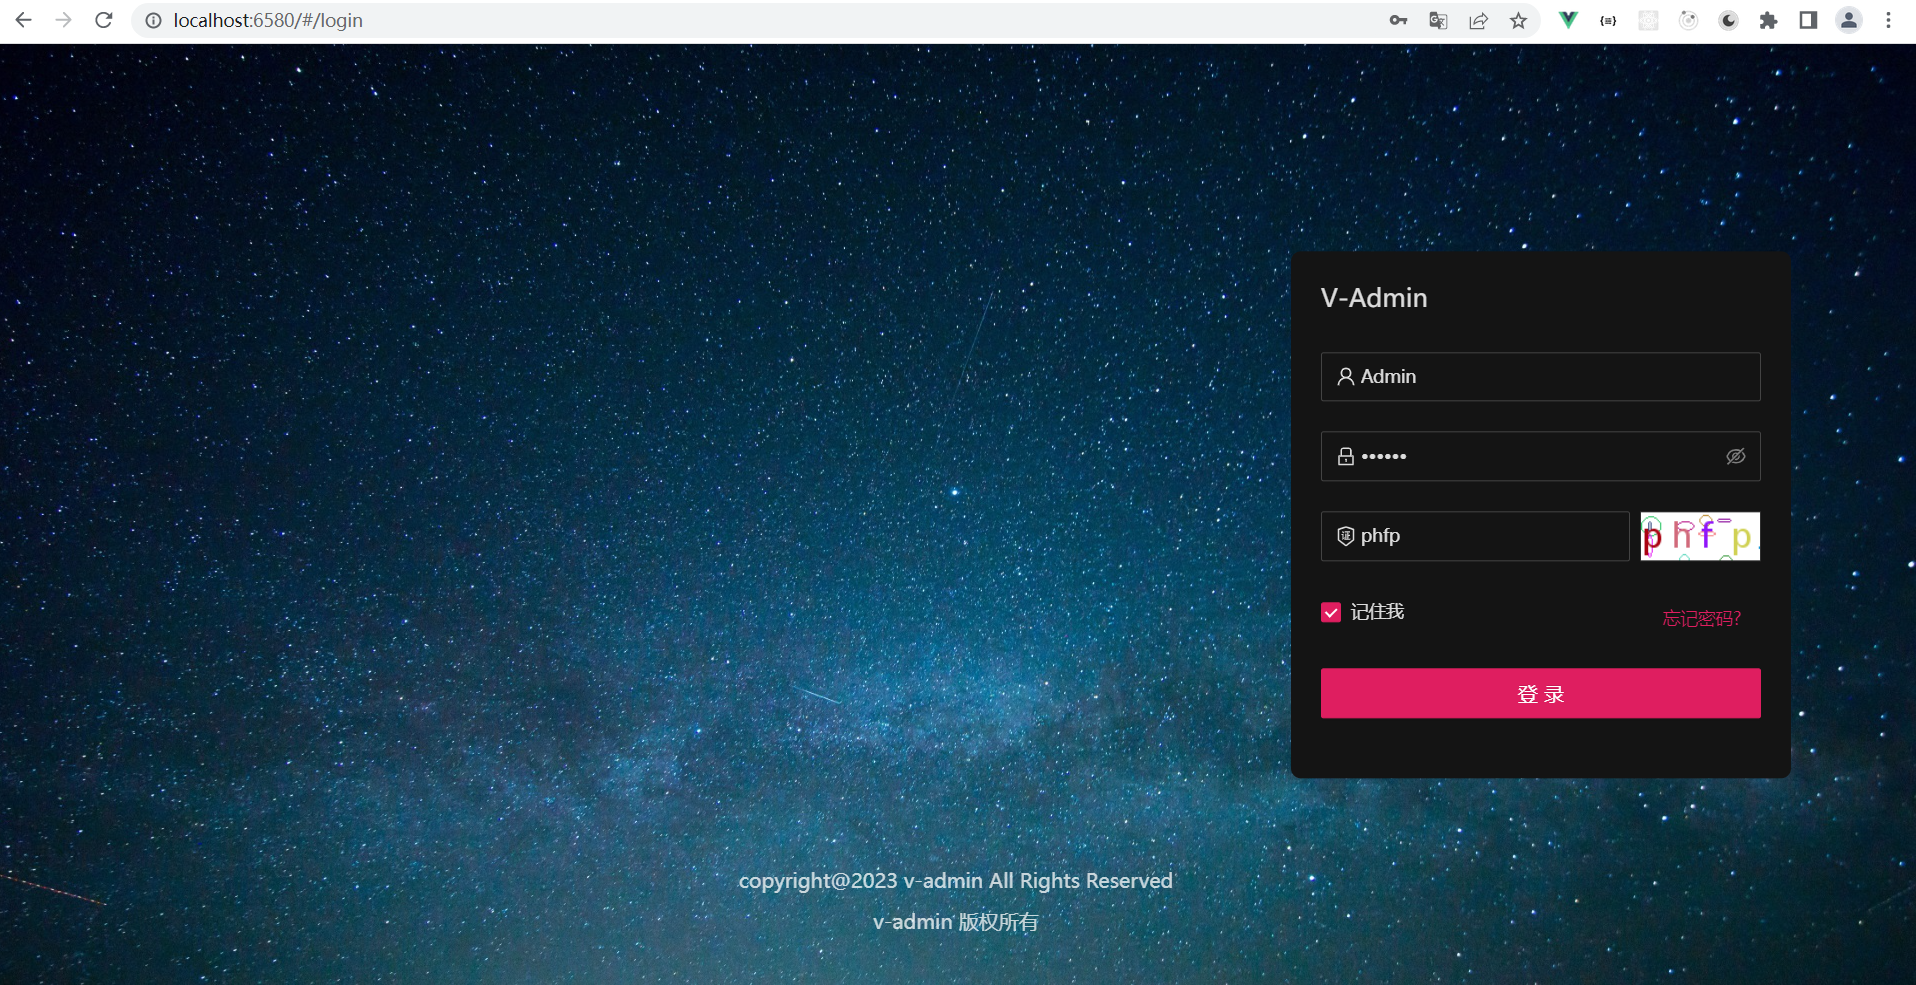
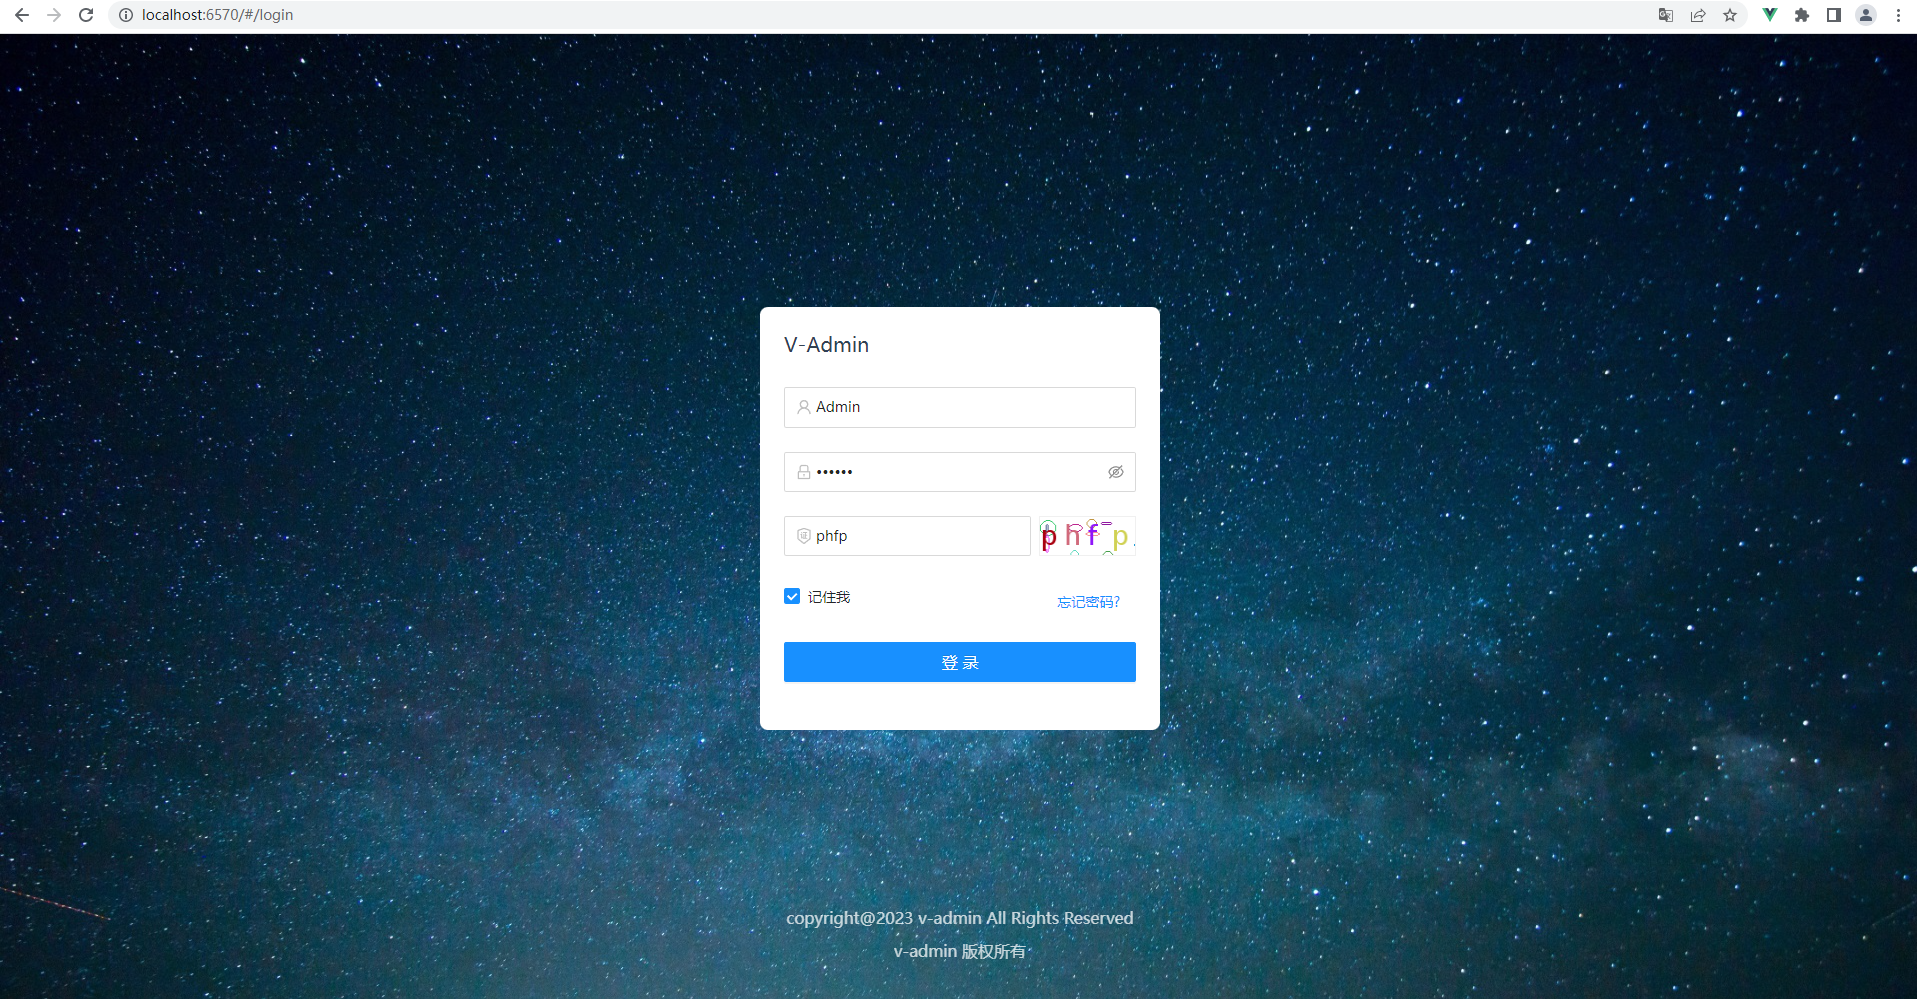
refactor: 优化代码

diff --git a/src/views/user/login/index.vue b/src/views/user/login/index.vue
@@ -115,16 +115,13 @@ function handleLogin(loginForm) {
   height: 100vh;
   background: url(/src/assets/imgs/login-bg-5.png) no-repeat;
   background-size: 100% 100%;
+  .flex();
 
   .login-form {
     width: 400px;
     background-color: #ffffff;
     box-shadow: 0px 6px 8px rgba(39, 106, 188, 0.05);
     border-radius: 8px;
-    position: fixed;
-    right: 100px;
-    top: 50%;
-    transform: translateY(-50%);
     padding: 24px;
 
     .title {

diff --git a/vite.config.js b/vite.config.js
@@ -29,8 +29,8 @@ export default defineConfig(({ mode }) => {
     },
     server: {
       open: true, // 自动开启窗口
+      host: true, // 监听本地所有IP
       port: envConf.VITE_PORT,
-      host: '0.0.0.0',
       proxy: {
         // easy-mock 官网 https://mock.mengxuegu.com   github地址: https://github.com/easy-mock/easy-mock
         '/api': {
